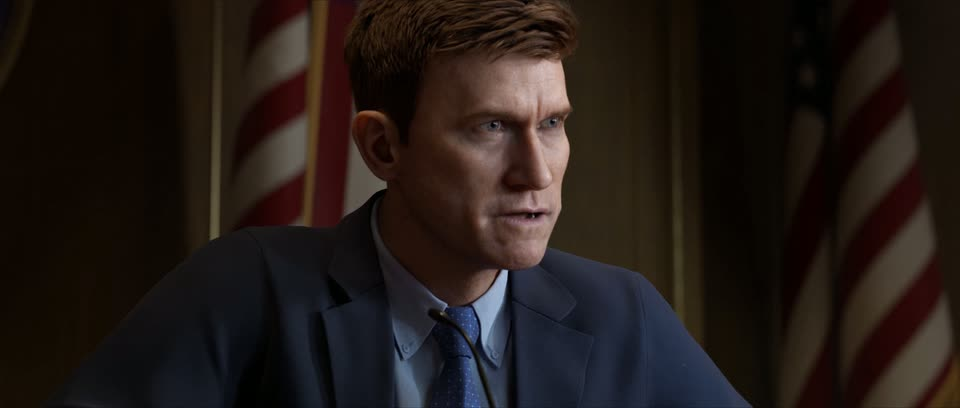
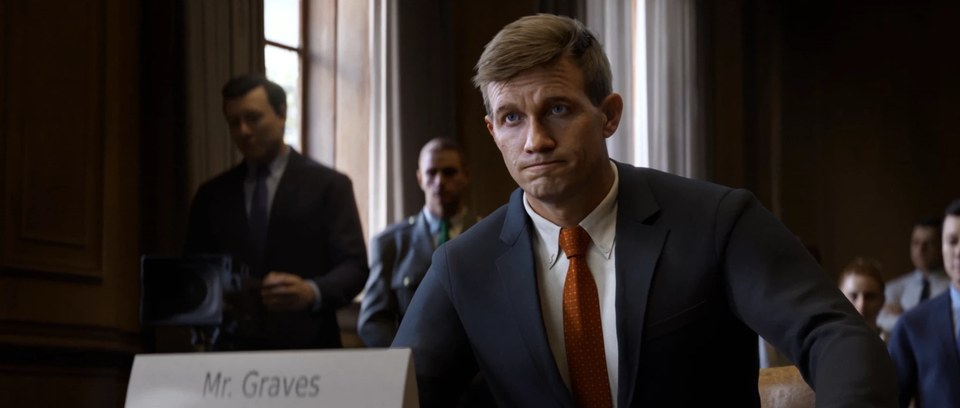
Graves: new covers for MW II and MW III

diff --git a/assets/data/archive-data.js b/assets/data/archive-data.js
@@ -157,9 +157,9 @@ var COD_PACKS = [
   {"id":"soap-mw2","collection":"cod","group":"soap","title":"Soap","chapter":"Modern Warfare II","poster":"assets/images/cod/soap-mw2.jpg","meta":"9:35 · 1.93 GB · one file","files":[{"url":"https://github.com/Qstrx/noctis/releases/download/scenepacks-v2/Soap-MW2-4K.mp4","name":"Soap MW2","run":"9:35","size":"1.93 GB","direct":true,"resolution":"3840 × 1634"}],"fps":"30 FPS","resolution":"3840 × 1634","count":"01 file","editions":{"2K":{"meta":"9:35 · 1.66 GB · one file","resolution":"2560 × 1088","files":[{"url":"https://github.com/Qstrx/noctis/releases/download/scenepacks-v2/Soap-MW2-2K.mp4","name":"Soap MW2","run":"9:35","size":"1.66 GB","direct":true,"resolution":"2560 × 1088"}]},"1080p":{"meta":"9:35 · 1.19 GB · one file","resolution":"1920 × 816","files":[{"url":"https://github.com/Qstrx/noctis/releases/download/scenepacks-v2/Soap-MW2-1080p.mp4","name":"Soap MW2","run":"9:35","size":"1.19 GB","direct":true,"resolution":"1920 × 816"}]}}},
   {"id":"soap-mw3","collection":"cod","group":"soap","title":"Soap","chapter":"Modern Warfare III","poster":"assets/images/cod/soap-mw3.jpg","meta":"7:38 · 1.93 GB · one file","files":[{"url":"https://github.com/Qstrx/noctis/releases/download/scenepacks-v2/Soap-MW3-4K.mp4","name":"Soap MW3","run":"7:38","size":"1.93 GB","direct":true,"resolution":"3840 × 1634"}],"fps":"30 FPS","resolution":"3840 × 1634","count":"01 file","editions":{"2K":{"meta":"7:38 · 1.75 GB · one file","resolution":"2560 × 1088","files":[{"url":"https://github.com/Qstrx/noctis/releases/download/scenepacks-v2/Soap-MW3-2K.mp4","name":"Soap MW3","run":"7:38","size":"1.75 GB","direct":true,"resolution":"2560 × 1088"}]},"1080p":{"meta":"7:38 · 1.01 GB · one file","resolution":"1920 × 816","files":[{"url":"https://github.com/Qstrx/noctis/releases/download/scenepacks-v2/Soap-MW3-1080p.mp4","name":"Soap MW3","run":"7:38","size":"1.01 GB","direct":true,"resolution":"1920 × 816"}]}}},
   {"id":"soap-extra","collection":"cod","group":"soap","title":"Soap","chapter":"More clips","poster":"assets/images/cod/soap-extra.jpg","meta":"1:00 · 444.7 MB · one file","files":[{"url":"https://github.com/Qstrx/noctis/releases/download/cod-141/Soap-More-Clips.mp4","name":"Soap more clips","run":"1:00","size":"444.7 MB","direct":true}],"fps":"60 FPS","resolution":"3840 × 2160","count":"01 file"},
-  {"id":"graves-mw2","collection":"cod","group":"graves","title":"Phillip Graves","chapter":"Modern Warfare II","poster":"assets/images/cod/graves-mw2.jpg","meta":"14:01 · 1.93 GB · one file","files":[{"url":"https://github.com/Qstrx/noctis/releases/download/scenepacks-v2/Graves-MW2-4K.mp4","name":"MW2","run":"14:01","size":"1.93 GB","direct":true,"resolution":"3840 × 1634"}],"fps":"30 FPS","resolution":"3840 × 1634","count":"01 file","editions":{"2K":{"meta":"14:01 · 1.85 GB · one file","resolution":"2560 × 1088","files":[{"url":"https://github.com/Qstrx/noctis/releases/download/scenepacks-v2/Graves-MW2-2K.mp4","name":"MW2","run":"14:01","size":"1.85 GB","direct":true,"resolution":"2560 × 1088"}]},"1080p":{"meta":"14:01 · 1.75 GB · one file","resolution":"1920 × 816","files":[{"url":"https://github.com/Qstrx/noctis/releases/download/scenepacks-v2/Graves-MW2-1080p.mp4","name":"MW2","run":"14:01","size":"1.75 GB","direct":true,"resolution":"1920 × 816"}]}}},
+  {"id":"graves-mw2","collection":"cod","group":"graves","title":"Phillip Graves","chapter":"Modern Warfare II","poster":"assets/images/cod/graves-mw2.jpg?v=2","meta":"14:01 · 1.93 GB · one file","files":[{"url":"https://github.com/Qstrx/noctis/releases/download/scenepacks-v2/Graves-MW2-4K.mp4","name":"MW2","run":"14:01","size":"1.93 GB","direct":true,"resolution":"3840 × 1634"}],"fps":"30 FPS","resolution":"3840 × 1634","count":"01 file","editions":{"2K":{"meta":"14:01 · 1.85 GB · one file","resolution":"2560 × 1088","files":[{"url":"https://github.com/Qstrx/noctis/releases/download/scenepacks-v2/Graves-MW2-2K.mp4","name":"MW2","run":"14:01","size":"1.85 GB","direct":true,"resolution":"2560 × 1088"}]},"1080p":{"meta":"14:01 · 1.75 GB · one file","resolution":"1920 × 816","files":[{"url":"https://github.com/Qstrx/noctis/releases/download/scenepacks-v2/Graves-MW2-1080p.mp4","name":"MW2","run":"14:01","size":"1.75 GB","direct":true,"resolution":"1920 × 816"}]}}},
   {"id":"graves-shadow-siege","collection":"cod","group":"graves","title":"Phillip Graves","chapter":"Shadow Siege","poster":"assets/images/cod/graves-shadow-siege.jpg","meta":"1:17 · 885.7 MB · one file","files":[{"url":"https://github.com/Qstrx/noctis/releases/download/scenepacks-v2/Graves-MW2-Shadow-Siege-4K.mp4","name":"Graves Shadow Siege","run":"1:17","size":"885.7 MB","direct":true,"resolution":"3840 × 1634"}],"fps":"30 FPS","resolution":"3840 × 1634","count":"01 file","editions":{"2K":{"meta":"1:17 · 128.9 MB · one file","resolution":"2560 × 1088","files":[{"url":"https://github.com/Qstrx/noctis/releases/download/scenepacks-v2/Graves-MW2-Shadow-Siege-2K.mp4","name":"Graves Shadow Siege","run":"1:17","size":"128.9 MB","direct":true,"resolution":"2560 × 1088"}]},"1080p":{"meta":"1:17 · 79.9 MB · one file","resolution":"1920 × 816","files":[{"url":"https://github.com/Qstrx/noctis/releases/download/scenepacks-v2/Graves-MW2-Shadow-Siege-1080p.mp4","name":"Graves Shadow Siege","run":"1:17","size":"79.9 MB","direct":true,"resolution":"1920 × 816"}]}}},
-  {"id":"graves-mw3","collection":"cod","group":"graves","title":"Phillip Graves","chapter":"Modern Warfare III","poster":"assets/images/cod/graves-mw3.jpg","meta":"5:35 · 1.86 GB · one file","files":[{"url":"https://github.com/Qstrx/noctis/releases/download/scenepacks-v2/Graves-MW3-4K.mp4","name":"MW3","run":"5:35","size":"1.86 GB","direct":true,"resolution":"3840 × 1634"}],"fps":"30 FPS","resolution":"3840 × 1634","count":"01 file","editions":{"2K":{"meta":"5:35 · 1.41 GB · one file","resolution":"2560 × 1088","files":[{"url":"https://github.com/Qstrx/noctis/releases/download/scenepacks-v2/Graves-MW3-2K.mp4","name":"MW3","run":"5:35","size":"1.41 GB","direct":true,"resolution":"2560 × 1088"}]},"1080p":{"meta":"5:35 · 730.0 MB · one file","resolution":"1920 × 816","files":[{"url":"https://github.com/Qstrx/noctis/releases/download/scenepacks-v2/Graves-MW3-1080p.mp4","name":"MW3","run":"5:35","size":"730.0 MB","direct":true,"resolution":"1920 × 816"}]}}},
+  {"id":"graves-mw3","collection":"cod","group":"graves","title":"Phillip Graves","chapter":"Modern Warfare III","poster":"assets/images/cod/graves-mw3.jpg?v=2","meta":"5:35 · 1.86 GB · one file","files":[{"url":"https://github.com/Qstrx/noctis/releases/download/scenepacks-v2/Graves-MW3-4K.mp4","name":"MW3","run":"5:35","size":"1.86 GB","direct":true,"resolution":"3840 × 1634"}],"fps":"30 FPS","resolution":"3840 × 1634","count":"01 file","editions":{"2K":{"meta":"5:35 · 1.41 GB · one file","resolution":"2560 × 1088","files":[{"url":"https://github.com/Qstrx/noctis/releases/download/scenepacks-v2/Graves-MW3-2K.mp4","name":"MW3","run":"5:35","size":"1.41 GB","direct":true,"resolution":"2560 × 1088"}]},"1080p":{"meta":"5:35 · 730.0 MB · one file","resolution":"1920 × 816","files":[{"url":"https://github.com/Qstrx/noctis/releases/download/scenepacks-v2/Graves-MW3-1080p.mp4","name":"MW3","run":"5:35","size":"730.0 MB","direct":true,"resolution":"1920 × 816"}]}}},
   {"id":"gaz-mw1","collection":"cod","group":"gaz","title":"Gaz","chapter":"Modern Warfare","poster":"assets/images/cod/gaz-mw1.jpg","meta":"2:21 · 629.6 MB · one file","files":[{"url":"https://github.com/Qstrx/noctis/releases/download/scenepacks-v2/Gaz-MW1-4K.mp4","name":"Gaz MW1","run":"2:21","size":"629.6 MB","direct":true,"resolution":"3840 × 1634"}],"fps":"30 FPS","resolution":"3840 × 1634","count":"01 file","editions":{"2K":{"meta":"2:21 · 345.0 MB · one file","resolution":"2560 × 1088","files":[{"url":"https://github.com/Qstrx/noctis/releases/download/scenepacks-v2/Gaz-MW1-2K.mp4","name":"Gaz MW1","run":"2:21","size":"345.0 MB","direct":true,"resolution":"2560 × 1088"}]},"1080p":{"meta":"2:21 · 195.5 MB · one file","resolution":"1920 × 816","files":[{"url":"https://github.com/Qstrx/noctis/releases/download/scenepacks-v2/Gaz-MW1-1080p.mp4","name":"Gaz MW1","run":"2:21","size":"195.5 MB","direct":true,"resolution":"1920 × 816"}]}}},
   {"id":"gaz-mw2","collection":"cod","group":"gaz","title":"Gaz","chapter":"Modern Warfare II","poster":"assets/images/cod/gaz-mw2.jpg","meta":"5:34 · 1.86 GB · one file","files":[{"url":"https://github.com/Qstrx/noctis/releases/download/scenepacks-v2/Gaz-MW2-4K.mp4","name":"Gaz MW2","run":"5:34","size":"1.86 GB","direct":true,"resolution":"3840 × 1634"}],"fps":"30 FPS","resolution":"3840 × 1634","count":"01 file","editions":{"2K":{"meta":"5:34 · 1.31 GB · one file","resolution":"2560 × 1088","files":[{"url":"https://github.com/Qstrx/noctis/releases/download/scenepacks-v2/Gaz-MW2-2K.mp4","name":"Gaz MW2","run":"5:34","size":"1.31 GB","direct":true,"resolution":"2560 × 1088"}]},"1080p":{"meta":"5:34 · 835.5 MB · one file","resolution":"1920 × 816","files":[{"url":"https://github.com/Qstrx/noctis/releases/download/scenepacks-v2/Gaz-MW2-1080p.mp4","name":"Gaz MW2","run":"5:34","size":"835.5 MB","direct":true,"resolution":"1920 × 816"}]}}},
   {"id":"gaz-mw3","collection":"cod","group":"gaz","title":"Gaz","chapter":"Modern Warfare III","poster":"assets/images/cod/gaz-mw3.jpg","meta":"4:40 · 1.57 GB · one file","files":[{"url":"https://github.com/Qstrx/noctis/releases/download/scenepacks-v2/Gaz-MW3-4K.mp4","name":"Gaz MW3","run":"4:40","size":"1.57 GB","direct":true,"resolution":"3840 × 1634"}],"fps":"30 FPS","resolution":"3840 × 1634","count":"01 file","editions":{"2K":{"meta":"4:40 · 1.22 GB · one file","resolution":"2560 × 1088","files":[{"url":"https://github.com/Qstrx/noctis/releases/download/scenepacks-v2/Gaz-MW3-2K.mp4","name":"Gaz MW3","run":"4:40","size":"1.22 GB","direct":true,"resolution":"2560 × 1088"}]},"1080p":{"meta":"4:40 · 678.4 MB · one file","resolution":"1920 × 816","files":[{"url":"https://github.com/Qstrx/noctis/releases/download/scenepacks-v2/Gaz-MW3-1080p.mp4","name":"Gaz MW3","run":"4:40","size":"678.4 MB","direct":true,"resolution":"1920 × 816"}]}}},
